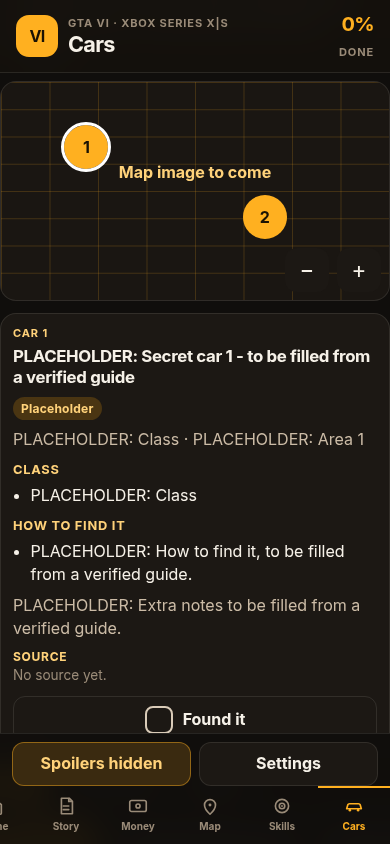
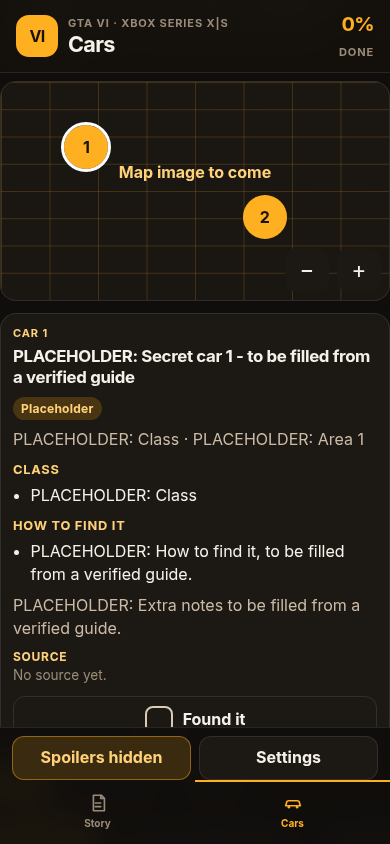
Show only the Story and Cars tabs for now.
The other sections stay in the code and data. Add a name back to ENABLED_TABS to switch that tab on again.

Changed region(s): [[0.0308, 0.8626, 0.4923, 0.9858], [0.5231, 0.8626, 1.0, 0.9858], [0.0, 0.955, 0.0308, 0.9858]]

diff --git a/tests/smoke.test.js b/tests/smoke.test.js
@@ -24,6 +24,7 @@ import {
   toggleId,
   visibleThroughChapter,
 } from "../js/progress.js";
+import { ENABLED_TABS, isTabEnabled } from "../js/config.js";
 import { illustrationCredits, parseRoute, renderCard, renderMain } from "../js/render.js";
 import { validateAll } from "../scripts/schema.js";
 import { loadData } from "../scripts/validate.js";
@@ -385,18 +386,36 @@ test("money, map, skills, gear, and online render the right rows", () => {
 });
 
 test("routes and the home dashboard stay inside the spoiler boundary", () => {
-  assert.deepEqual(parseRoute(""), { section: "home", sub: null });
-  assert.deepEqual(parseRoute("#/map/secrets"), { section: "map", sub: "secrets" });
-  assert.deepEqual(parseRoute("#/nope"), { section: "home", sub: null });
-  assert.equal(parseRoute("#/skills/drills").sub, "drills");
+  assert.deepEqual(ENABLED_TABS, ["story", "cars"]);
+  assert.equal(isTabEnabled("story"), true);
+  assert.equal(isTabEnabled("home"), false);
+  assert.deepEqual(parseRoute(""), { section: "story", sub: null });
+  assert.deepEqual(parseRoute("#/story"), { section: "story", sub: null });
+  assert.deepEqual(parseRoute("#/cars"), { section: "cars", sub: null });
+  assert.deepEqual(parseRoute("#/map/secrets"), { section: "story", sub: null });
+  assert.deepEqual(parseRoute("#/nope"), { section: "story", sub: null });
+  assert.equal(parseRoute("#/skills/drills").section, "story");
 
   const home = renderMain(model(emptyProgress(NOW), { section: "home" }));
   assert.match(home, /Next up/);
   assert.match(home, /Prologue/);
+  assert.match(home, /data-goto="#\/story"/);
+  assert.match(home, /data-goto="#\/cars"/);
+  assert.doesNotMatch(home, /data-goto="#\/money"/);
+  assert.doesNotMatch(home, /data-goto="#\/map/);
+  assert.doesNotMatch(home, /data-goto="#\/skills/);
+  assert.doesNotMatch(home, /data-goto="#\/gear/);
+  assert.doesNotMatch(home, /data-goto="#\/online/);
   assert.match(home, /named guides/);
   assert.doesNotMatch(home, /Chapter 2 mission/);
   assert.match(home, /Not set/);
   assert.match(home, /Single-player only/);
+  const caughtUp = data.story.chapters[0].missions
+    .map((mission) => mission.id)
+    .reduce((current, id) => toggleId(current, "missions", id, NOW).progress, emptyProgress(NOW));
+  const laterHome = renderMain(model(caughtUp, { section: "home" }));
+  assert.match(laterHome, /data-goto="#\/story"/);
+  assert.doesNotMatch(laterHome, /data-goto="#\/skills/);
   const withCash = setCash(emptyProgress(NOW), { cash: "40", note: "<b>note</b>" }, NOW).progress;
   const cashed = renderMain(model(withCash, { section: "home" }));
   assert.match(cashed, />40</);

diff --git a/js/render.js b/js/render.js
@@ -1,3 +1,4 @@
+import { DEFAULT_TAB, isTabEnabled, tabForHash } from "./config.js";
 import { escapeHtml as e } from "./html.js";
 import {
   completionReport,
@@ -67,7 +68,8 @@ const STAGE_TITLE = { early: "Early story", mid: "Mid story", late: "Late story"
 export function parseRoute(hash) {
   const raw = String(hash || "").replace(/^#/, "").replace(/^\//, "");
   const [name, sub] = raw.split("/").filter(Boolean);
-  const section = Object.prototype.hasOwnProperty.call(ROUTES, name) ? name : "home";
+  const parsed = Object.prototype.hasOwnProperty.call(ROUTES, name) ? name : DEFAULT_TAB;
+  const section = isTabEnabled(parsed) ? parsed : DEFAULT_TAB;
   const subs = ROUTES[section].subs;
   const match = subs.find((item) => item.id === sub);
   return { section, sub: match ? match.id : (subs[0] ? subs[0].id : null) };
@@ -450,11 +452,13 @@ function renderNext(model) {
     </article>`;
   }
   if (!suggestion.side) return story;
+  const sideHash = hashFor(suggestion.side);
+  if (!isTabEnabled(tabForHash(sideHash))) return story;
   return `${story}<article class="card">
     <p class="kicker">Also</p>
     <h3>${e(suggestion.side.title)}</h3>
     <p class="summary">${e(suggestion.side.blurb)}</p>
-    <button type="button" class="btn-ghost" data-goto="${e(hashFor(suggestion.side))}">Open it</button>
+    <button type="button" class="btn-ghost" data-goto="${e(sideHash)}">Open it</button>
   </article>`;
 }
 
@@ -486,7 +490,7 @@ function renderHome(model) {
     ? '<button type="button" class="btn-primary" data-install="1">Install app</button>'
     : '<p class="fine">To install: browser menu, then Install or Add to Home screen. After one online visit, pages open offline.</p>';
   const latest = Object.values(model.data).map((file) => file.lastUpdated).sort().at(-1);
-  const links = report.sections.map((section) => `<button type="button" class="section-link" data-goto="${e(section.hash)}">
+  const links = report.sections.filter((section) => isTabEnabled(tabForHash(section.hash))).map((section) => `<button type="button" class="section-link" data-goto="${e(section.hash)}">
       <span class="section-link-text"><strong>${e(section.label)}</strong><span>${section.done}/${section.total}</span></span>
       <span class="bar" aria-hidden="true"><span style="width:${section.percent}%"></span></span>
     </button>`).join("");

diff --git a/index.html b/index.html
@@ -10,7 +10,7 @@
   <meta name="mobile-web-app-capable" content="yes">
   <meta name="apple-mobile-web-app-status-bar-style" content="black-translucent">
   <meta name="apple-mobile-web-app-title" content="VI Tracker">
-  <title>Home · GTA VI Tracker</title>
+  <title>Story · GTA VI Tracker</title>
   <link rel="manifest" href="./manifest.webmanifest">
   <link rel="icon" href="./icons/icon-192.png" type="image/png">
   <link rel="apple-touch-icon" href="./icons/apple-touch-icon.png">
@@ -24,7 +24,7 @@
         <div class="brand-mark" aria-hidden="true">VI</div>
         <div>
           <p class="eyebrow">GTA VI · Xbox Series X|S</p>
-          <h1 id="view-title">Home</h1>
+          <h1 id="view-title">Story</h1>
         </div>
       </div>
       <p class="header-stat"><strong id="header-percent">0%</strong><span>done</span></p>
@@ -38,11 +38,11 @@
         <button id="settings-open" type="button" class="tool-btn">Settings</button>
       </div>
       <nav class="tabs" aria-label="Sections">
-        <button type="button" data-tab="home" class="is-active" aria-current="page">
+        <button type="button" data-tab="home">
           <svg viewBox="0 0 24 24" aria-hidden="true"><path d="M4 10.5 12 4l8 6.5V20a1 1 0 0 1-1 1h-5v-6H10v6H5a1 1 0 0 1-1-1z" fill="none" stroke="currentColor" stroke-width="1.8" stroke-linejoin="round"/></svg>
           <span>Home</span>
         </button>
-        <button type="button" data-tab="story">
+        <button type="button" data-tab="story" class="is-active" aria-current="page">
           <svg viewBox="0 0 24 24" aria-hidden="true"><path d="M7 3.5h8.5L19 7v13.5H7z" fill="none" stroke="currentColor" stroke-width="1.8" stroke-linejoin="round"/><path d="M15 3.8V7h3.2M9 12h6M9 16h6" fill="none" stroke="currentColor" stroke-width="1.8" stroke-linecap="round"/></svg>
           <span>Story</span>
         </button>

diff --git a/js/app.js b/js/app.js
@@ -1,3 +1,4 @@
+import { DEFAULT_TAB, isTabEnabled } from "./config.js";
 import { illustrationCredits, renderMain, parseRoute, ROUTES } from "./render.js";
 import {
   STORAGE_KEY,
@@ -55,6 +56,23 @@ function announce(text) {
   if (!live) return;
   live.textContent = "";
   live.textContent = text;
+}
+
+function applyTabVisibility() {
+  document.querySelectorAll("[data-tab]").forEach((button) => {
+    const enabled = isTabEnabled(button.dataset.tab);
+    button.hidden = !enabled;
+    if (!enabled) {
+      button.classList.remove("is-active");
+      button.removeAttribute("aria-current");
+    }
+  });
+}
+
+function openEnabledRoute() {
+  const route = parseRoute(location.hash);
+  const hash = `#/${route.section}${route.sub ? `/${route.sub}` : ""}`;
+  if (location.hash !== hash) location.replace(hash);
 }
 
 function syncChrome(route) {
@@ -464,6 +482,8 @@ function registerSw() {
 }
 
 async function boot() {
+  applyTabVisibility();
+  openEnabledRoute();
   bind();
   try {
     const data = {};

diff --git a/js/config.js b/js/config.js
@@ -1,0 +1,19 @@
+/**
+ * Tabs shown in the bottom bar.
+ * Put a name back in this list to switch that section on again.
+ * Names match the data-tab buttons in index.html: home, story, money, map, skills, cars, gear, online.
+ */
+export const ENABLED_TABS = ["story", "cars"];
+
+/** First name in ENABLED_TABS is the page the app opens on. */
+export const DEFAULT_TAB = ENABLED_TABS[0];
+
+export function isTabEnabled(name) {
+  return ENABLED_TABS.includes(name);
+}
+
+/** First path segment of a hash such as #/skills/drills. */
+export function tabForHash(hash) {
+  const name = String(hash || "").replace(/^#/, "").replace(/^\//, "").split("/").filter(Boolean)[0];
+  return name || DEFAULT_TAB;
+}

diff --git a/css/styles.css b/css/styles.css
@@ -766,9 +766,9 @@ textarea { min-height: 140px; resize: vertical; }
 .tabs::-webkit-scrollbar { display: none; }
 
 .tabs button {
-  flex: 0 0 72px;
+  flex: 1 1 0;
   min-width: 72px;
-  min-height: 58px;
+  min-height: 64px;
   padding: 6px 0 8px;
   border: 0;
   background: transparent;
@@ -783,6 +783,8 @@ textarea { min-height: 140px; resize: vertical; }
 }
 
 .tabs button svg { width: 22px; height: 22px; }
+
+.tabs button[hidden] { display: none; }
 
 .tabs button.is-active {
   color: var(--amber);

diff --git a/sw.js b/sw.js
@@ -1,10 +1,11 @@
 /* Bump CACHE when shipped files change so old caches are dropped. */
-const CACHE = "gta6-tracker-v3";
+const CACHE = "gta6-tracker-v4";
 
 const RELATIVE_ASSETS = [
   "./index.html",
   "./css/styles.css",
   "./js/app.js",
+  "./js/config.js",
   "./js/progress.js",
   "./js/render.js",
   "./js/html.js",

diff --git a/README.md b/README.md
@@ -6,7 +6,7 @@ Launch is recorded here as **19 November 2026**, single-player only. No online m
 
 ## Use it
 
-Open `index.html` over HTTP (not as a bare file, or the JSON will not load). The bottom bar has Home, Story, Money, Map, Skills, Cars, Gear, and Online. It scrolls sideways so each target stays large. Spoilers and Settings sit just above it, in thumb reach.
+Open `index.html` over HTTP (not as a bare file, or the JSON will not load). The app opens on Story. The bottom bar currently shows Story and Cars only, with Spoilers and Settings just above it. Other sections are still in the code and the data files. Add a name back to `ENABLED_TABS` in `js/config.js` (`home`, `story`, `money`, `map`, `skills`, `cars`, `gear`, `online`) to show that tab again.
 
 - **Home** shows completion, a cash figure you type yourself, and the next unticked mission.
 - **Story** is chapters and missions, with steps, bonus or gold objectives, and missables inside each card.
